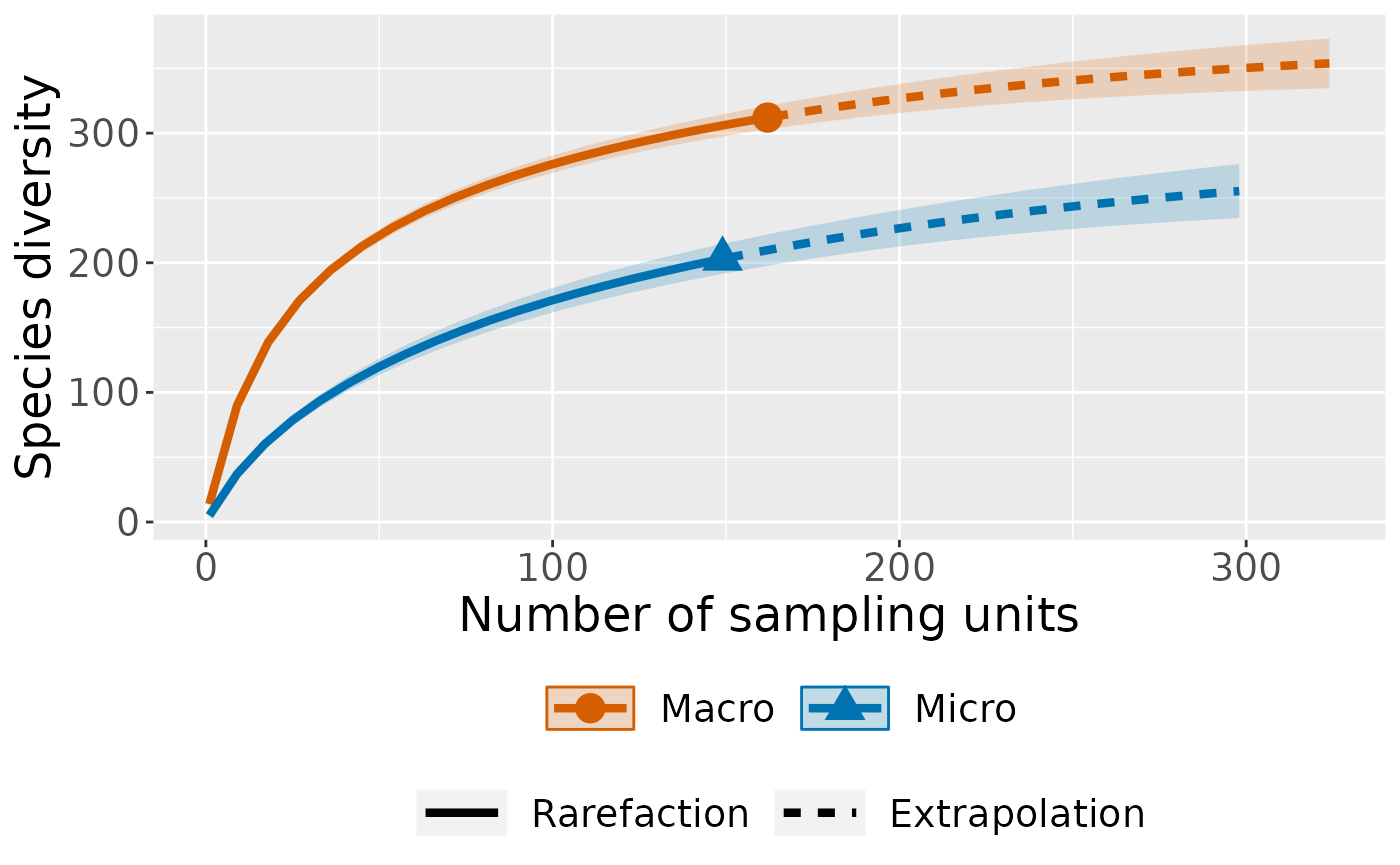
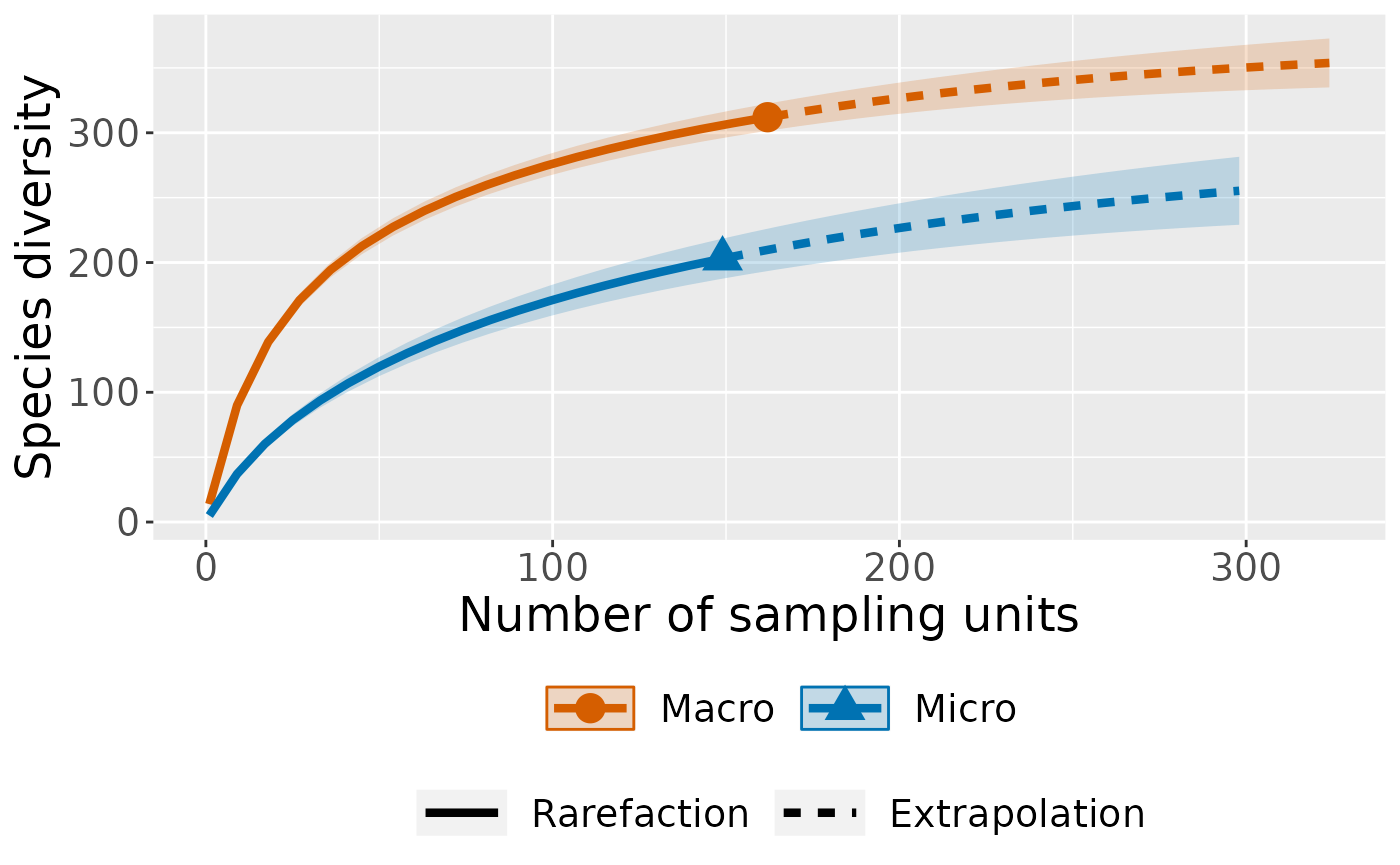
Deploying to gh-pages from @ PietrH/vlindersRarefaction@75d965e802a8405c8f0f9b311054c267bde5d436 🚀

diff --git a/articles/plotting-warande.html b/articles/plotting-warande.html
@@ -123,65 +123,65 @@ shape (and exactly this shape) to this format.</p>
 <span><span class="co">#&gt; $size_based (LCL and UCL are obtained for fixed size.)</span></span>
 <span><span class="co">#&gt; </span></span>
 <span><span class="co">#&gt;    Assemblage   t        Method Order.q         qD     qD.LCL     qD.UCL</span></span>
-<span><span class="co">#&gt; 1       Macro   1   Rarefaction       0  13.765432  13.360112  14.170752</span></span>
-<span><span class="co">#&gt; 10      Macro  81   Rarefaction       0 259.802910 253.738034 265.867786</span></span>
-<span><span class="co">#&gt; 20      Macro 162      Observed       0 312.000000 302.881878 321.118122</span></span>
-<span><span class="co">#&gt; 30      Macro 239 Extrapolation       0 337.999160 324.229447 351.768874</span></span>
-<span><span class="co">#&gt; 40      Macro 324 Extrapolation       0 353.816856 334.621298 373.012415</span></span>
-<span><span class="co">#&gt; 41      Micro   1   Rarefaction       0   5.006711   4.669676   5.343747</span></span>
-<span><span class="co">#&gt; 50      Micro  74   Rarefaction       0 147.884654 139.905423 155.863884</span></span>
-<span><span class="co">#&gt; 60      Micro 149      Observed       0 203.000000 191.422898 214.577102</span></span>
-<span><span class="co">#&gt; 70      Micro 220 Extrapolation       0 234.001881 218.687454 249.316308</span></span>
-<span><span class="co">#&gt; 80      Micro 298 Extrapolation       0 255.307935 234.439519 276.176352</span></span>
+<span><span class="co">#&gt; 1       Macro   1   Rarefaction       0  13.765432  13.263973  14.266891</span></span>
+<span><span class="co">#&gt; 10      Macro  81   Rarefaction       0 259.802910 252.076232 267.529589</span></span>
+<span><span class="co">#&gt; 20      Macro 162      Observed       0 312.000000 301.533359 322.466641</span></span>
+<span><span class="co">#&gt; 30      Macro 239 Extrapolation       0 337.999160 323.982049 352.016272</span></span>
+<span><span class="co">#&gt; 40      Macro 324 Extrapolation       0 353.816856 334.963643 372.670070</span></span>
+<span><span class="co">#&gt; 41      Micro   1   Rarefaction       0   5.006711   4.665687   5.347736</span></span>
+<span><span class="co">#&gt; 50      Micro  74   Rarefaction       0 147.884654 138.222892 157.546416</span></span>
+<span><span class="co">#&gt; 60      Micro 149      Observed       0 203.000000 187.581204 218.418796</span></span>
+<span><span class="co">#&gt; 70      Micro 220 Extrapolation       0 234.001881 213.507457 254.496305</span></span>
+<span><span class="co">#&gt; 80      Micro 298 Extrapolation       0 255.307935 229.113794 281.502077</span></span>
 <span><span class="co">#&gt;            SC     SC.LCL     SC.UCL</span></span>
-<span><span class="co">#&gt; 1  0.09081692 0.08537723 0.09625662</span></span>
-<span><span class="co">#&gt; 10 0.93026235 0.92492730 0.93559739</span></span>
-<span><span class="co">#&gt; 20 0.96795077 0.96185094 0.97405061</span></span>
-<span><span class="co">#&gt; 30 0.98185989 0.97559296 0.98812682</span></span>
-<span><span class="co">#&gt; 40 0.99032209 0.98539258 0.99525160</span></span>
-<span><span class="co">#&gt; 41 0.05474241 0.04649653 0.06298829</span></span>
-<span><span class="co">#&gt; 50 0.79818804 0.77701614 0.81935994</span></span>
-<span><span class="co">#&gt; 60 0.89210493 0.87234064 0.91186922</span></span>
-<span><span class="co">#&gt; 70 0.93111330 0.90910005 0.95312655</span></span>
-<span><span class="co">#&gt; 80 0.95792181 0.93851370 0.97732992</span></span>
+<span><span class="co">#&gt; 1  0.09081692 0.08484818 0.09678567</span></span>
+<span><span class="co">#&gt; 10 0.93026235 0.92374025 0.93678444</span></span>
+<span><span class="co">#&gt; 20 0.96795077 0.96244572 0.97345583</span></span>
+<span><span class="co">#&gt; 30 0.98185989 0.97574257 0.98797720</span></span>
+<span><span class="co">#&gt; 40 0.99032209 0.98522854 0.99541564</span></span>
+<span><span class="co">#&gt; 41 0.05474241 0.04690009 0.06258473</span></span>
+<span><span class="co">#&gt; 50 0.79818804 0.77599337 0.82038271</span></span>
+<span><span class="co">#&gt; 60 0.89210493 0.87190435 0.91230551</span></span>
+<span><span class="co">#&gt; 70 0.93111330 0.90965876 0.95256784</span></span>
+<span><span class="co">#&gt; 80 0.95792181 0.93912801 0.97671561</span></span>
 <span><span class="co">#&gt; </span></span>
 <span><span class="co">#&gt; NOTE: The above output only shows five estimates for each assemblage; call iNEXT.object$iNextEst$size_based to view complete output.</span></span>
 <span><span class="co">#&gt; </span></span>
 <span><span class="co">#&gt; $coverage_based (LCL and UCL are obtained for fixed coverage; interval length is wider due to varying size in bootstraps.)</span></span>
 <span><span class="co">#&gt; </span></span>
 <span><span class="co">#&gt;    Assemblage         SC   t        Method Order.q         qD     qD.LCL</span></span>
-<span><span class="co">#&gt; 1       Macro 0.09081810   1   Rarefaction       0  13.765607  13.351705</span></span>
-<span><span class="co">#&gt; 10      Macro 0.93026235  81   Rarefaction       0 259.802915 250.728091</span></span>
-<span><span class="co">#&gt; 20      Macro 0.96795077 162      Observed       0 312.000000 296.427658</span></span>
-<span><span class="co">#&gt; 30      Macro 0.98185989 239 Extrapolation       0 337.999160 316.349470</span></span>
-<span><span class="co">#&gt; 40      Macro 0.99032209 324 Extrapolation       0 353.816856 327.844756</span></span>
-<span><span class="co">#&gt; 41      Micro 0.05474241   1   Rarefaction       0   5.006711   4.678991</span></span>
-<span><span class="co">#&gt; 50      Micro 0.79818804  74   Rarefaction       0 147.884652 134.264639</span></span>
-<span><span class="co">#&gt; 60      Micro 0.89210493 149      Observed       0 203.000000 183.397099</span></span>
-<span><span class="co">#&gt; 70      Micro 0.93111330 220 Extrapolation       0 234.001881 208.840521</span></span>
-<span><span class="co">#&gt; 80      Micro 0.95792181 298 Extrapolation       0 255.307935 224.632593</span></span>
+<span><span class="co">#&gt; 1       Macro 0.09081810   1   Rarefaction       0  13.765607  13.270642</span></span>
+<span><span class="co">#&gt; 10      Macro 0.93026235  81   Rarefaction       0 259.802915 248.494728</span></span>
+<span><span class="co">#&gt; 20      Macro 0.96795077 162      Observed       0 312.000000 296.436122</span></span>
+<span><span class="co">#&gt; 30      Macro 0.98185989 239 Extrapolation       0 337.999160 316.494748</span></span>
+<span><span class="co">#&gt; 40      Macro 0.99032209 324 Extrapolation       0 353.816856 327.652237</span></span>
+<span><span class="co">#&gt; 41      Micro 0.05474241   1   Rarefaction       0   5.006711   4.650722</span></span>
+<span><span class="co">#&gt; 50      Micro 0.79818804  74   Rarefaction       0 147.884652 131.556469</span></span>
+<span><span class="co">#&gt; 60      Micro 0.89210493 149      Observed       0 203.000000 178.297428</span></span>
+<span><span class="co">#&gt; 70      Micro 0.93111330 220 Extrapolation       0 234.001881 203.472757</span></span>
+<span><span class="co">#&gt; 80      Micro 0.95792181 298 Extrapolation       0 255.307935 219.571793</span></span>
 <span><span class="co">#&gt;        qD.UCL</span></span>
-<span><span class="co">#&gt; 1   14.179509</span></span>
-<span><span class="co">#&gt; 10 268.877739</span></span>
-<span><span class="co">#&gt; 20 327.572342</span></span>
-<span><span class="co">#&gt; 30 359.648851</span></span>
-<span><span class="co">#&gt; 40 379.788957</span></span>
-<span><span class="co">#&gt; 41   5.334431</span></span>
-<span><span class="co">#&gt; 50 161.504665</span></span>
-<span><span class="co">#&gt; 60 222.602901</span></span>
-<span><span class="co">#&gt; 70 259.163241</span></span>
-<span><span class="co">#&gt; 80 285.983278</span></span>
+<span><span class="co">#&gt; 1   14.260573</span></span>
+<span><span class="co">#&gt; 10 271.111102</span></span>
+<span><span class="co">#&gt; 20 327.563878</span></span>
+<span><span class="co">#&gt; 30 359.503573</span></span>
+<span><span class="co">#&gt; 40 379.981476</span></span>
+<span><span class="co">#&gt; 41   5.362701</span></span>
+<span><span class="co">#&gt; 50 164.212835</span></span>
+<span><span class="co">#&gt; 60 227.702572</span></span>
+<span><span class="co">#&gt; 70 264.531005</span></span>
+<span><span class="co">#&gt; 80 291.044077</span></span>
 <span><span class="co">#&gt; </span></span>
 <span><span class="co">#&gt; NOTE: The above output only shows five estimates for each assemblage; call iNEXT.object$iNextEst$coverage_based to view complete output.</span></span>
 <span><span class="co">#&gt; </span></span>
 <span><span class="co">#&gt; $AsyEst: asymptotic diversity estimates along with related statistics.</span></span>
 <span><span class="co">#&gt;   Assemblage         Diversity  Observed Estimator      s.e.       LCL      UCL</span></span>
-<span><span class="co">#&gt; 1      Macro  Species richness 312.00000 371.90698 17.141032 338.31117 405.5028</span></span>
-<span><span class="co">#&gt; 2      Macro Shannon diversity 193.08584 210.89968  3.799469 203.45286 218.3465</span></span>
-<span><span class="co">#&gt; 3      Macro Simpson diversity 142.75175 151.57339  3.498765 144.71594 158.4308</span></span>
-<span><span class="co">#&gt; 4      Micro  Species richness 203.00000 288.74956 20.654730 248.26703 329.2321</span></span>
-<span><span class="co">#&gt; 5      Micro Shannon diversity 123.68027 152.96329  6.449802 140.32191 165.6047</span></span>
-<span><span class="co">#&gt; 6      Micro Simpson diversity  81.96112  91.45944  5.310082  81.05187 101.8670</span></span></code></pre></div>
+<span><span class="co">#&gt; 1      Macro  Species richness 312.00000 371.90698 15.229187 342.05832 401.7556</span></span>
+<span><span class="co">#&gt; 2      Macro Shannon diversity 193.08584 210.89968  4.631346 201.82241 219.9770</span></span>
+<span><span class="co">#&gt; 3      Macro Simpson diversity 142.75175 151.57339  4.191310 143.35858 159.7882</span></span>
+<span><span class="co">#&gt; 4      Micro  Species richness 203.00000 288.74956 21.204881 247.18876 330.3104</span></span>
+<span><span class="co">#&gt; 5      Micro Shannon diversity 123.68027 152.96329  5.993821 141.21562 164.7110</span></span>
+<span><span class="co">#&gt; 6      Micro Simpson diversity  81.96112  91.45944  4.826863  81.99896 100.9199</span></span></code></pre></div>
 <p>And plot it:</p>
 <div class="sourceCode" id="cb4"><pre class="downlit sourceCode r">
 <code class="sourceCode R"><span><span class="fu">iNEXT</span><span class="fu">::</span><span class="fu"><a href="https://rdrr.io/pkg/iNEXT/man/ggiNEXT.html" class="external-link">ggiNEXT</a></span><span class="op">(</span><span class="va">rare_out_inc</span><span class="op">)</span></span></code></pre></div>
@@ -216,71 +216,71 @@ shape (and exactly this shape) to this format.</p>
 <span><span class="co">#&gt; </span></span>
 <span><span class="co">#&gt;    Assemblage    m        Method Order.q       qD   qD.LCL   qD.UCL         SC</span></span>
 <span><span class="co">#&gt; 1       Macro    1   Rarefaction       0   1.0000   1.0000   1.0000 0.01518561</span></span>
-<span><span class="co">#&gt; 10      Macro 1882   Rarefaction       0 263.1436 255.9064 270.3807 0.96069585</span></span>
-<span><span class="co">#&gt; 20      Macro 3764      Observed       0 312.0000 300.8718 323.1282 0.98220515</span></span>
-<span><span class="co">#&gt; 30      Macro 5547 Extrapolation       0 336.5489 320.3765 352.7212 0.98960299</span></span>
-<span><span class="co">#&gt; 40      Macro 7528 Extrapolation       0 352.0598 330.0338 374.0858 0.99427725</span></span>
+<span><span class="co">#&gt; 10      Macro 1882   Rarefaction       0 263.1436 254.5583 271.7289 0.96069585</span></span>
+<span><span class="co">#&gt; 20      Macro 3764      Observed       0 312.0000 298.7149 325.2851 0.98220515</span></span>
+<span><span class="co">#&gt; 30      Macro 5547 Extrapolation       0 336.5489 318.4500 354.6478 0.98960299</span></span>
+<span><span class="co">#&gt; 40      Macro 7528 Extrapolation       0 352.0598 328.0090 376.1106 0.99427725</span></span>
 <span><span class="co">#&gt; 41      Micro    1   Rarefaction       0   1.0000   1.0000   1.0000 0.06690595</span></span>
-<span><span class="co">#&gt; 50      Micro  606   Rarefaction       0 149.2826 141.8074 156.7579 0.87805769</span></span>
-<span><span class="co">#&gt; 60      Micro 1212      Observed       0 203.0000 191.7873 214.2127 0.93487158</span></span>
-<span><span class="co">#&gt; 70      Micro 1786 Extrapolation       0 232.8697 217.9688 247.7707 0.95920486</span></span>
-<span><span class="co">#&gt; 80      Micro 2424 Extrapolation       0 253.1737 233.1166 273.2307 0.97574539</span></span>
+<span><span class="co">#&gt; 50      Micro  606   Rarefaction       0 149.2826 140.6733 157.8920 0.87805769</span></span>
+<span><span class="co">#&gt; 60      Micro 1212      Observed       0 203.0000 189.5660 216.4340 0.93487158</span></span>
+<span><span class="co">#&gt; 70      Micro 1786 Extrapolation       0 232.8697 215.1298 250.6096 0.95920486</span></span>
+<span><span class="co">#&gt; 80      Micro 2424 Extrapolation       0 253.1737 230.5123 275.8350 0.97574539</span></span>
 <span><span class="co">#&gt;        SC.LCL     SC.UCL</span></span>
-<span><span class="co">#&gt; 1  0.01383352 0.01653770</span></span>
-<span><span class="co">#&gt; 10 0.95732316 0.96406854</span></span>
-<span><span class="co">#&gt; 20 0.97821169 0.98619861</span></span>
-<span><span class="co">#&gt; 30 0.98548394 0.99372204</span></span>
-<span><span class="co">#&gt; 40 0.99095381 0.99760068</span></span>
-<span><span class="co">#&gt; 41 0.05726963 0.07654227</span></span>
-<span><span class="co">#&gt; 50 0.86810848 0.88800691</span></span>
-<span><span class="co">#&gt; 60 0.92517820 0.94456497</span></span>
-<span><span class="co">#&gt; 70 0.94761353 0.97079618</span></span>
-<span><span class="co">#&gt; 80 0.96494486 0.98654593</span></span>
+<span><span class="co">#&gt; 1  0.01392365 0.01644758</span></span>
+<span><span class="co">#&gt; 10 0.95690030 0.96449140</span></span>
+<span><span class="co">#&gt; 20 0.97852694 0.98588337</span></span>
+<span><span class="co">#&gt; 30 0.98544350 0.99376249</span></span>
+<span><span class="co">#&gt; 40 0.99070193 0.99785256</span></span>
+<span><span class="co">#&gt; 41 0.05737633 0.07643557</span></span>
+<span><span class="co">#&gt; 50 0.86635752 0.88975787</span></span>
+<span><span class="co">#&gt; 60 0.92402396 0.94571920</span></span>
+<span><span class="co">#&gt; 70 0.94782430 0.97058542</span></span>
+<span><span class="co">#&gt; 80 0.96575138 0.98573941</span></span>
 <span><span class="co">#&gt; </span></span>
 <span><span class="co">#&gt; NOTE: The above output only shows five estimates for each assemblage; call iNEXT.object$iNextEst$size_based to view complete output.</span></span>
 <span><span class="co">#&gt; </span></span>
 <span><span class="co">#&gt; $coverage_based (LCL and UCL are obtained for fixed coverage; interval length is wider due to varying size in bootstraps.)</span></span>
 <span><span class="co">#&gt; </span></span>
 <span><span class="co">#&gt;    Assemblage         SC    m        Method Order.q         qD      qD.LCL</span></span>
-<span><span class="co">#&gt; 1       Macro 0.01518581    1   Rarefaction       0   1.000013   0.9639891</span></span>
-<span><span class="co">#&gt; 10      Macro 0.96069585 1882   Rarefaction       0 263.143565 252.2344689</span></span>
-<span><span class="co">#&gt; 20      Macro 0.98220515 3764      Observed       0 312.000000 292.9711025</span></span>
-<span><span class="co">#&gt; 30      Macro 0.98960299 5547 Extrapolation       0 336.548863 311.0977320</span></span>
-<span><span class="co">#&gt; 40      Macro 0.99427725 7528 Extrapolation       0 352.059815 321.8709526</span></span>
-<span><span class="co">#&gt; 41      Micro 0.06690595    1   Rarefaction       0   1.000000   0.9142025</span></span>
-<span><span class="co">#&gt; 50      Micro 0.87805770  606   Rarefaction       0 149.282641 136.0074413</span></span>
-<span><span class="co">#&gt; 60      Micro 0.93487158 1212      Observed       0 203.000000 184.9150247</span></span>
-<span><span class="co">#&gt; 70      Micro 0.95920486 1786 Extrapolation       0 232.869717 208.3513494</span></span>
-<span><span class="co">#&gt; 80      Micro 0.97574539 2424 Extrapolation       0 253.173653 222.7631796</span></span>
-<span><span class="co">#&gt;        qD.UCL</span></span>
-<span><span class="co">#&gt; 1    1.036037</span></span>
-<span><span class="co">#&gt; 10 274.052661</span></span>
-<span><span class="co">#&gt; 20 331.028897</span></span>
-<span><span class="co">#&gt; 30 361.999994</span></span>
-<span><span class="co">#&gt; 40 382.248678</span></span>
-<span><span class="co">#&gt; 41   1.085798</span></span>
-<span><span class="co">#&gt; 50 162.557841</span></span>
-<span><span class="co">#&gt; 60 221.084975</span></span>
-<span><span class="co">#&gt; 70 257.388085</span></span>
-<span><span class="co">#&gt; 80 283.584127</span></span>
+<span><span class="co">#&gt; 1       Macro 0.01518581    1   Rarefaction       0   1.000013   0.9698768</span></span>
+<span><span class="co">#&gt; 10      Macro 0.96069585 1882   Rarefaction       0 263.143565 249.4411878</span></span>
+<span><span class="co">#&gt; 20      Macro 0.98220515 3764      Observed       0 312.000000 289.2931331</span></span>
+<span><span class="co">#&gt; 30      Macro 0.98960299 5547 Extrapolation       0 336.548863 306.4046973</span></span>
+<span><span class="co">#&gt; 40      Macro 0.99427725 7528 Extrapolation       0 352.059815 316.5017165</span></span>
+<span><span class="co">#&gt; 41      Micro 0.06690595    1   Rarefaction       0   1.000000   0.9100998</span></span>
+<span><span class="co">#&gt; 50      Micro 0.87805770  606   Rarefaction       0 149.282641 134.0202135</span></span>
+<span><span class="co">#&gt; 60      Micro 0.93487158 1212      Observed       0 203.000000 181.5139737</span></span>
+<span><span class="co">#&gt; 70      Micro 0.95920486 1786 Extrapolation       0 232.869717 206.1779910</span></span>
+<span><span class="co">#&gt; 80      Micro 0.97574539 2424 Extrapolation       0 253.173653 222.1240316</span></span>
+<span><span class="co">#&gt;       qD.UCL</span></span>
+<span><span class="co">#&gt; 1    1.03015</span></span>
+<span><span class="co">#&gt; 10 276.84594</span></span>
+<span><span class="co">#&gt; 20 334.70687</span></span>
+<span><span class="co">#&gt; 30 366.69303</span></span>
+<span><span class="co">#&gt; 40 387.61791</span></span>
+<span><span class="co">#&gt; 41   1.08990</span></span>
+<span><span class="co">#&gt; 50 164.54507</span></span>
+<span><span class="co">#&gt; 60 224.48603</span></span>
+<span><span class="co">#&gt; 70 259.56144</span></span>
+<span><span class="co">#&gt; 80 284.22328</span></span>
 <span><span class="co">#&gt; </span></span>
 <span><span class="co">#&gt; NOTE: The above output only shows five estimates for each assemblage; call iNEXT.object$iNextEst$coverage_based to view complete output.</span></span>
 <span><span class="co">#&gt; </span></span>
 <span><span class="co">#&gt; $AsyEst: asymptotic diversity estimates along with related statistics.</span></span>
 <span><span class="co">#&gt;   Assemblage         Diversity  Observed Estimator      s.e.       LCL</span></span>
-<span><span class="co">#&gt; 1      Macro  Species richness 312.00000 371.05010 17.225522 337.28869</span></span>
-<span><span class="co">#&gt; 2      Macro Shannon diversity 131.17683 138.38326  3.105434 132.29672</span></span>
-<span><span class="co">#&gt; 3      Macro Simpson diversity  64.73642  65.85180  2.690612  60.57830</span></span>
-<span><span class="co">#&gt; 4      Micro  Species richness 203.00000 282.94680 21.496477 240.81448</span></span>
-<span><span class="co">#&gt; 5      Micro Shannon diversity  57.86578  65.89988  3.616186  58.81228</span></span>
-<span><span class="co">#&gt; 6      Micro Simpson diversity  14.77632  14.94635  1.286047  12.42575</span></span>
+<span><span class="co">#&gt; 1      Macro  Species richness 312.00000 371.05010 16.330292 339.04331</span></span>
+<span><span class="co">#&gt; 2      Macro Shannon diversity 131.17683 138.38326  3.220504 132.07118</span></span>
+<span><span class="co">#&gt; 3      Macro Simpson diversity  64.73642  65.85180  2.805875  60.35239</span></span>
+<span><span class="co">#&gt; 4      Micro  Species richness 203.00000 282.94680 23.601296 236.68911</span></span>
+<span><span class="co">#&gt; 5      Micro Shannon diversity  57.86578  65.89988  3.418883  59.19899</span></span>
+<span><span class="co">#&gt; 6      Micro Simpson diversity  14.77632  14.94635  1.250838  12.49476</span></span>
 <span><span class="co">#&gt;         UCL</span></span>
-<span><span class="co">#&gt; 1 404.81150</span></span>
-<span><span class="co">#&gt; 2 144.46980</span></span>
-<span><span class="co">#&gt; 3  71.12530</span></span>
-<span><span class="co">#&gt; 4 325.07912</span></span>
-<span><span class="co">#&gt; 5  72.98747</span></span>
-<span><span class="co">#&gt; 6  17.46696</span></span></code></pre></div>
+<span><span class="co">#&gt; 1 403.05688</span></span>
+<span><span class="co">#&gt; 2 144.69533</span></span>
+<span><span class="co">#&gt; 3  71.35121</span></span>
+<span><span class="co">#&gt; 4 329.20449</span></span>
+<span><span class="co">#&gt; 5  72.60076</span></span>
+<span><span class="co">#&gt; 6  17.39795</span></span></code></pre></div>
 <p>And plot it:</p>
 <div class="sourceCode" id="cb6"><pre class="downlit sourceCode r">
 <code class="sourceCode R"><span><span class="fu">iNEXT</span><span class="fu">::</span><span class="fu"><a href="https://rdrr.io/pkg/iNEXT/man/ggiNEXT.html" class="external-link">ggiNEXT</a></span><span class="op">(</span><span class="va">rare_out_abun</span><span class="op">)</span></span></code></pre></div>

diff --git a/authors.html b/authors.html
@@ -53,6 +53,10 @@
           <p><strong>Pieter Huybrechts</strong>. Author, maintainer. <a href="https://orcid.org/0000-0002-6658-6062" target="orcid.widget" aria-label="ORCID" class="external-link"><span class="fab fa-orcid orcid" aria-hidden="true"></span></a>
           </p>
         </li>
+        <li>
+          <p><strong>Dirk Maes</strong>. Contributor. <a href="https://orcid.org/0000-0002-7947-3788" target="orcid.widget" aria-label="ORCID" class="external-link"><span class="fab fa-orcid orcid" aria-hidden="true"></span></a>
+          </p>
+        </li>
       </ul></div>
 
     <div class="section level2 citation">

diff --git a/index.html b/index.html
@@ -149,6 +149,7 @@
 <h2 data-toc-skip>Developers</h2>
 <ul class="list-unstyled">
 <li>Pieter Huybrechts <br><small class="roles"> Author, maintainer </small> <a href="https://orcid.org/0000-0002-6658-6062" target="orcid.widget" aria-label="ORCID" class="external-link"><span class="fab fa-orcid orcid" aria-hidden="true"></span></a> </li>
+<li><a href="authors.html">More about authors...</a></li>
 </ul>
 </div>
 
